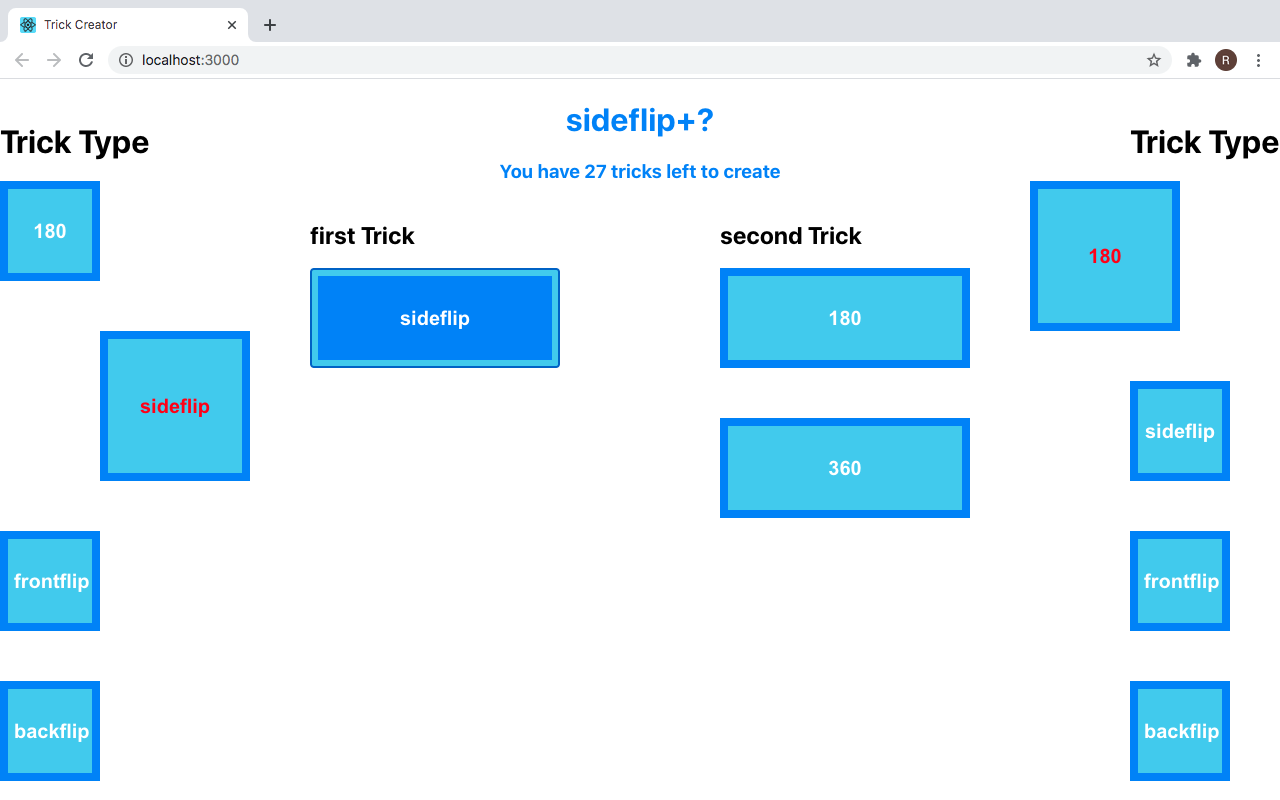
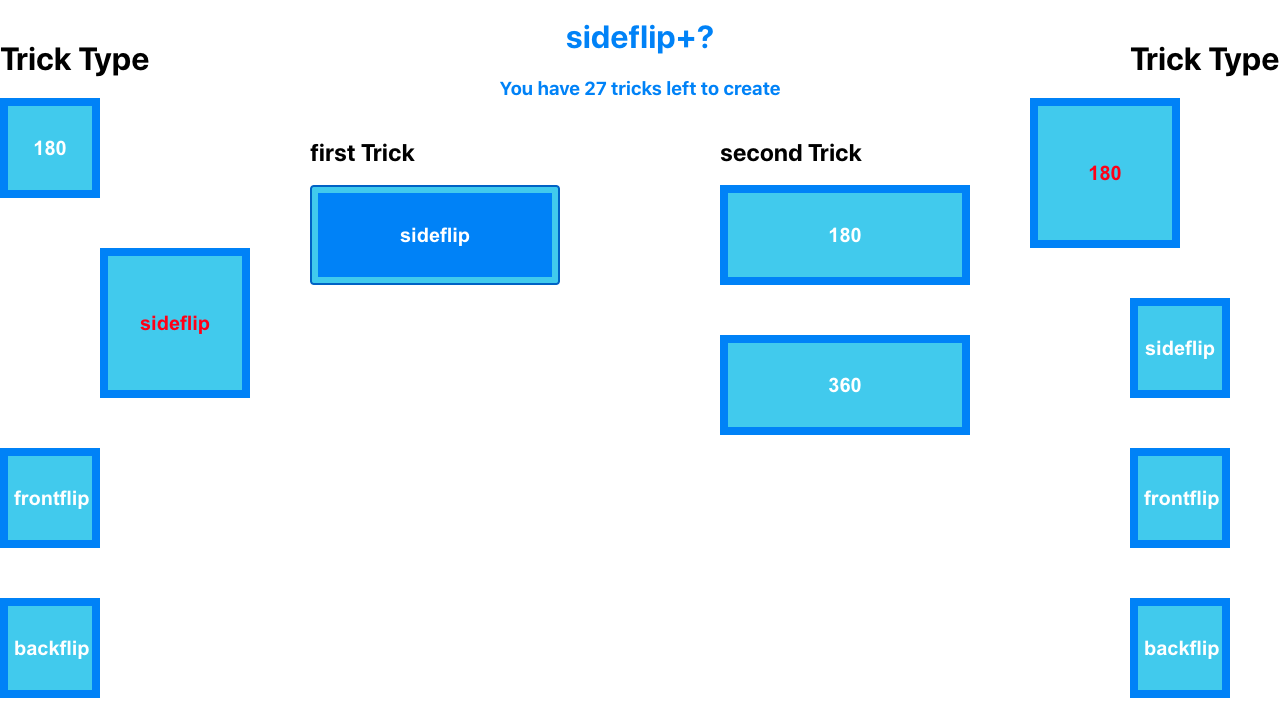
change border

diff --git a/src/App.css b/src/App.css
@@ -1,10 +1,6 @@
-body {
-    height: 100%;
-    width: 100%;
-}
 
 
-html { 
+body { 
   background: url('./Images/background-images/Background-image-orange.jpg') no-repeat center center fixed; 
   -webkit-background-size: cover;
   -moz-background-size: cover;
@@ -68,8 +64,7 @@ a {
 
 .image {
     height: 300px;
-    padding: 5px;
-    border: 3px solid #555;
+    border: 3px solid rgb(21, 21, 138);
 }
 
 .image-text {
@@ -94,7 +89,7 @@ a {
     width: 100%;
     margin: auto;
     padding: 20px;
-    border: 3px solid black;
+    border: 3px solid rgb(21, 21, 138);
 }
 
 .trick-summary {
